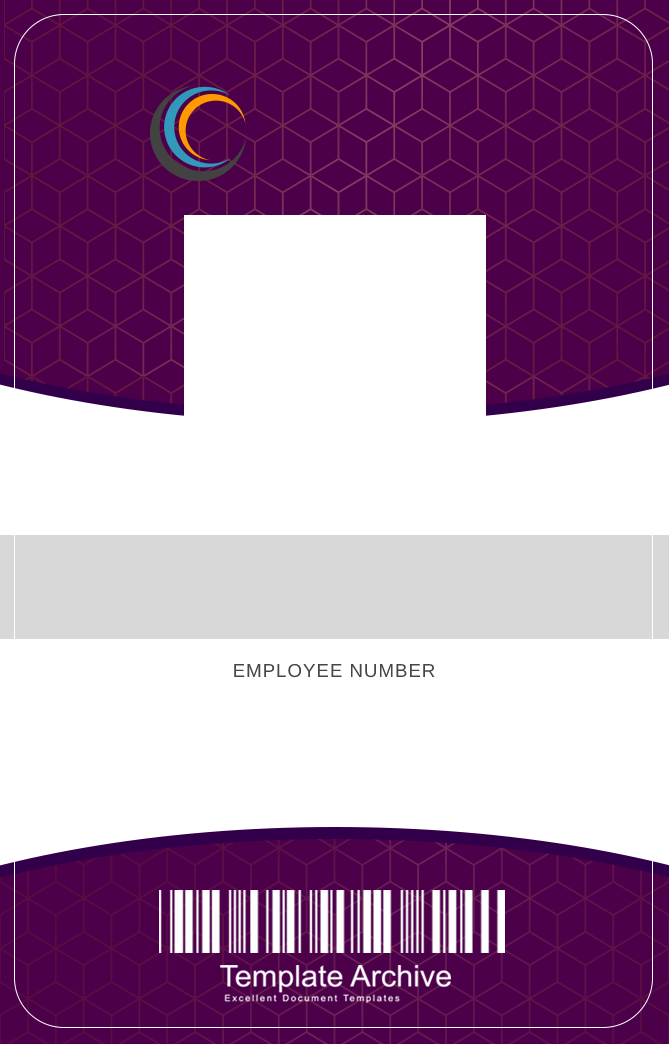
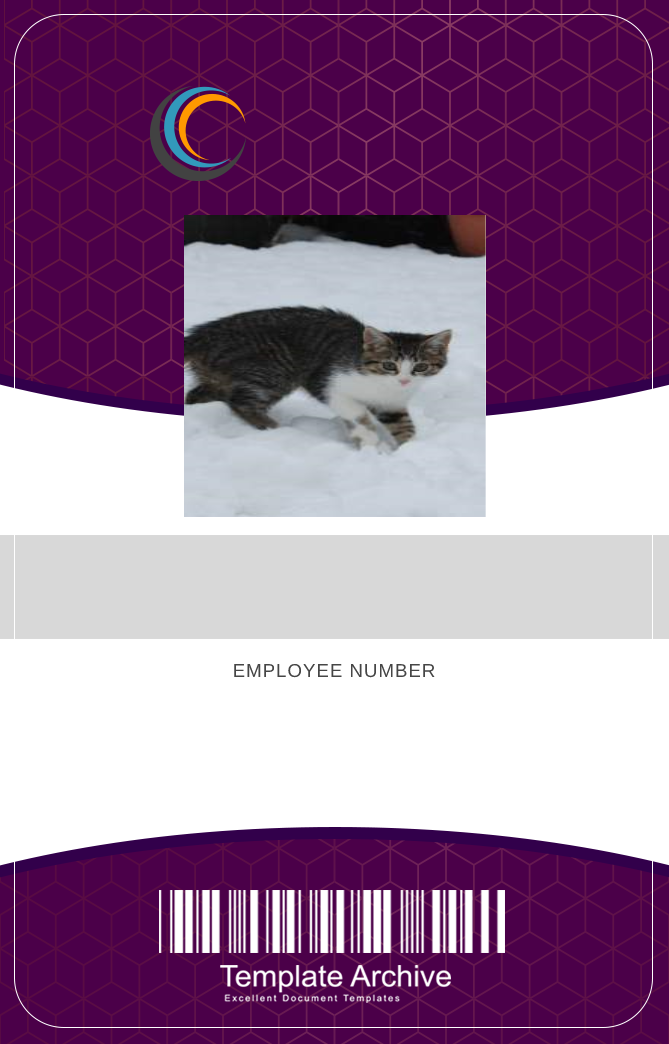
able to insert an image into the badge template

Changed region(s): [[0.2691, 0.1839, 0.7474, 0.5211]]

diff --git a/Util.cs b/Util.cs
@@ -1,5 +1,6 @@
 using System;
 using System.IO;
+using System.Net;
 using System.Collections.Generic;
 using System.Drawing;
 
@@ -41,9 +42,44 @@ namespace CatWorx.BadgeMaker
         }
 
         public static void MakeBadges(List<Employee> employees) {
+            // Layout variables
+            int BADGE_WIDTH = 669;
+            int BADGE_HEIGHT = 1044;
+            int COMPANY_NAME_START_X = 0;
+            int COMPANY_NAME_START_Y = 110;
+            int COMPANY_NAME_WIDTH = 100;
+            int PHOTO_START_X = 184;
+            int PHOTO_START_Y = 215;
+            int PHOTO_WIDTH = 302;
+            int PHOTO_HEIGHT = 302;
+            int EMPLOYEE_NAME_START_X = 0;
+            int EMPLOYEE_NAME_START_Y = 560;
+            int EMPLOYEE_NAME_WIDTH = BADGE_WIDTH;
+            int EMPLOYEE_NAME_HEIGHT = 100;
+            int EMPLOYEE_ID_START_X = 0;
+            int EMPLOYEE_ID_START_Y = 690;
+            int EMPLOYEE_ID_WIDTH = BADGE_WIDTH;
+            int EMPLOYEE_ID_HEIGHT = 100;
+                        
             //create image
             Image newImage = Image.FromFile("badge.png");
             newImage.Save("data/employeeBadge.png");
+
+            // instance of WebClient is disposed after code in the block has run
+            using(WebClient client = new WebClient())
+            {
+                for (int i = 0; i < employees.Count; i++)
+                {
+                    Image photo = Image.FromStream(client.OpenRead(employees[i].GetPhotoUrl()));
+                    Image background = Image.FromFile("badge.png");
+                    //background.Save("data/employeeBadge.png");
+                    Image badge = new Bitmap(BADGE_WIDTH, BADGE_HEIGHT);
+                    Graphics graphic = Graphics.FromImage(badge);
+                    graphic.DrawImage(background, new Rectangle(0, 0, BADGE_WIDTH, BADGE_HEIGHT));
+                    graphic.DrawImage(photo, new Rectangle(PHOTO_START_X, PHOTO_START_Y, PHOTO_WIDTH, PHOTO_HEIGHT));
+                    //badge.Save("data/employeeBadge.png");
+                }
+            }
         }
         
     }
